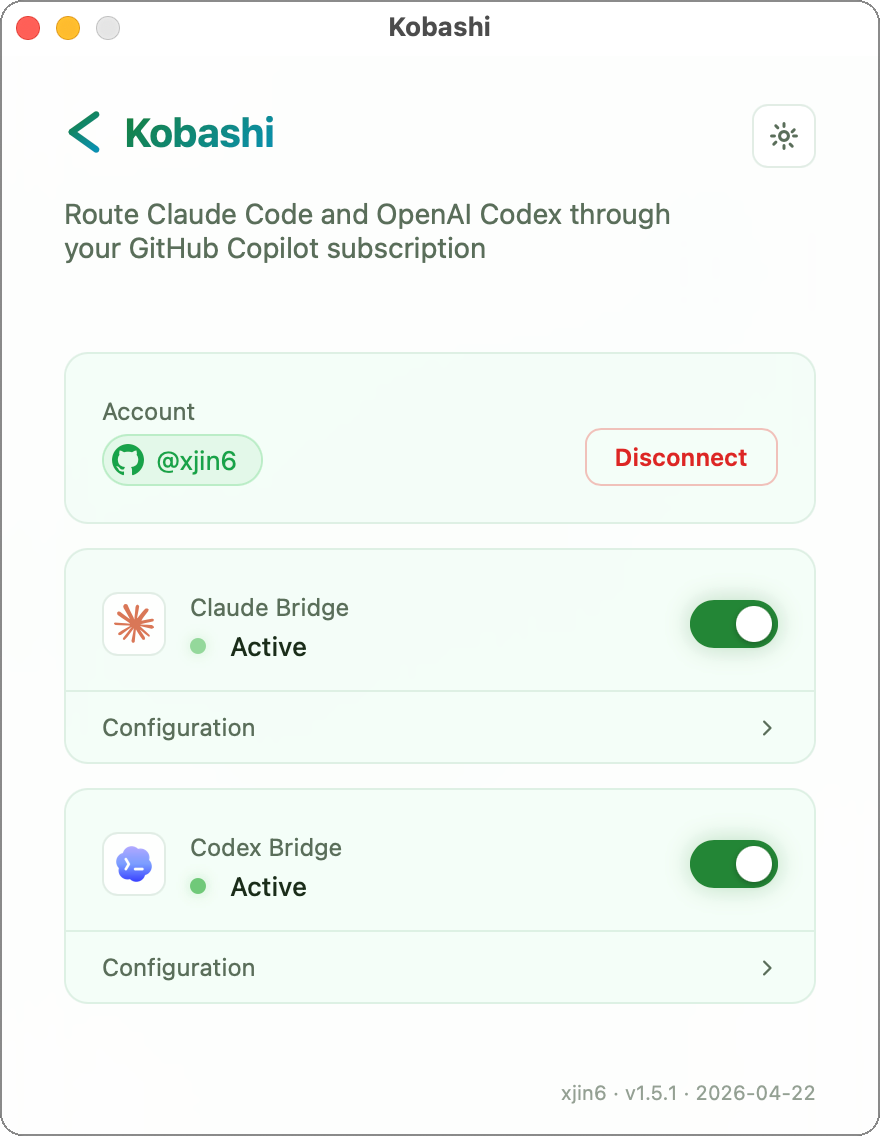
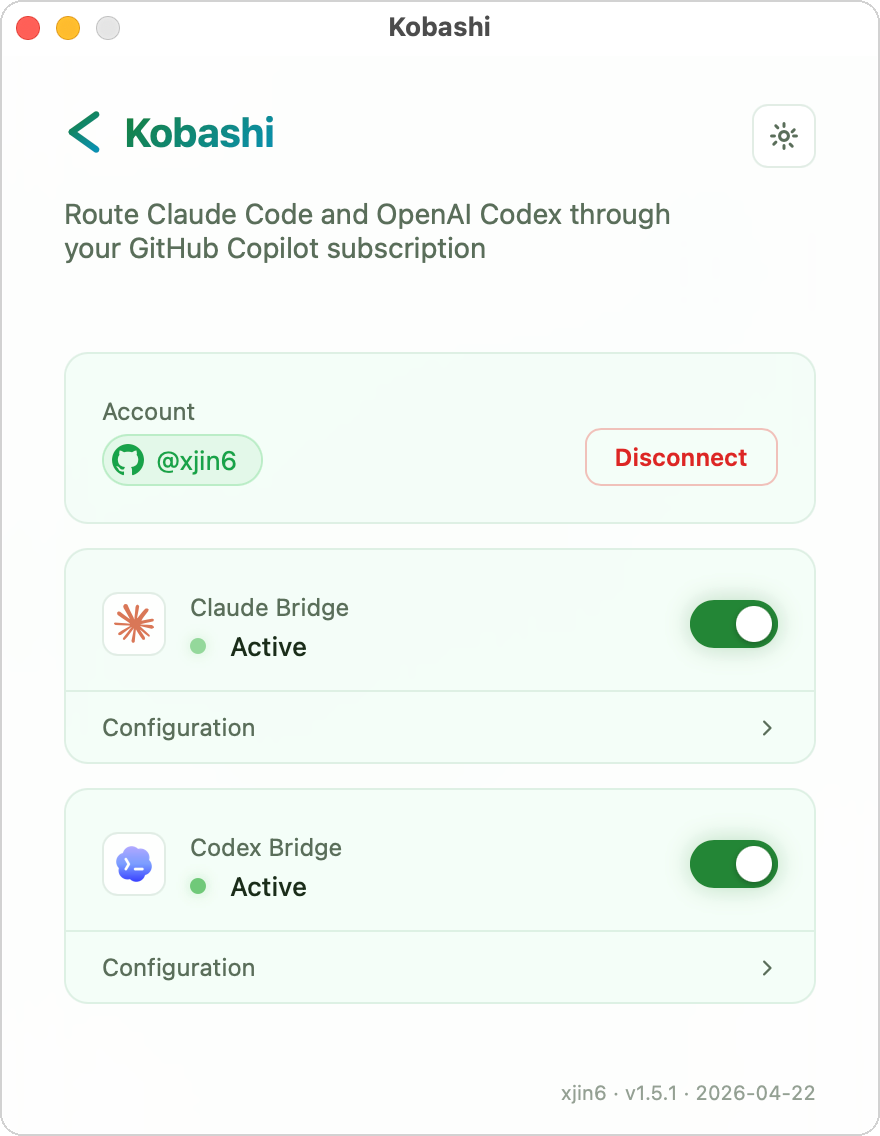
docs: soften light-screenshot border (width 2px @2x, 18% opacity)

Changed region(s): [[0.0, 0.0, 1.0, 1.0], [0.0, 0.0, 0.0307, 0.0308]]

diff --git a/README.md b/README.md
@@ -5,7 +5,7 @@ Route Claude Code and OpenAI Codex through your GitHub Copilot subscription.
 Kobashi is a local bridge that lets [Claude Code](https://www.anthropic.com/claude-code) and [OpenAI Codex](https://openai.com/index/introducing-gpt-5-3-codex/) use your existing GitHub Copilot subscription instead of separate Anthropic or OpenAI API keys.
 
 <p align="center">
-  <img src="assets/light.png?v=2" width="380" alt="Kobashi — light mode">
+  <img src="assets/light.png?v=3" width="380" alt="Kobashi — light mode">
   &nbsp;&nbsp;
   <img src="assets/dark.png?v=2" width="380" alt="Kobashi — dark mode">
 </p>
